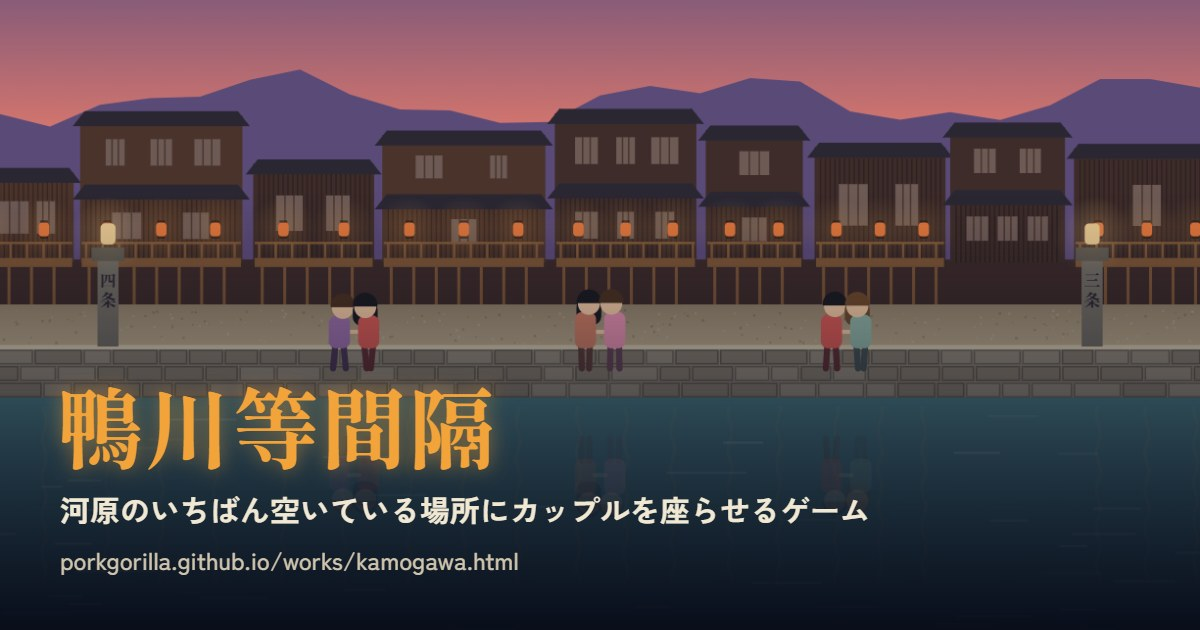
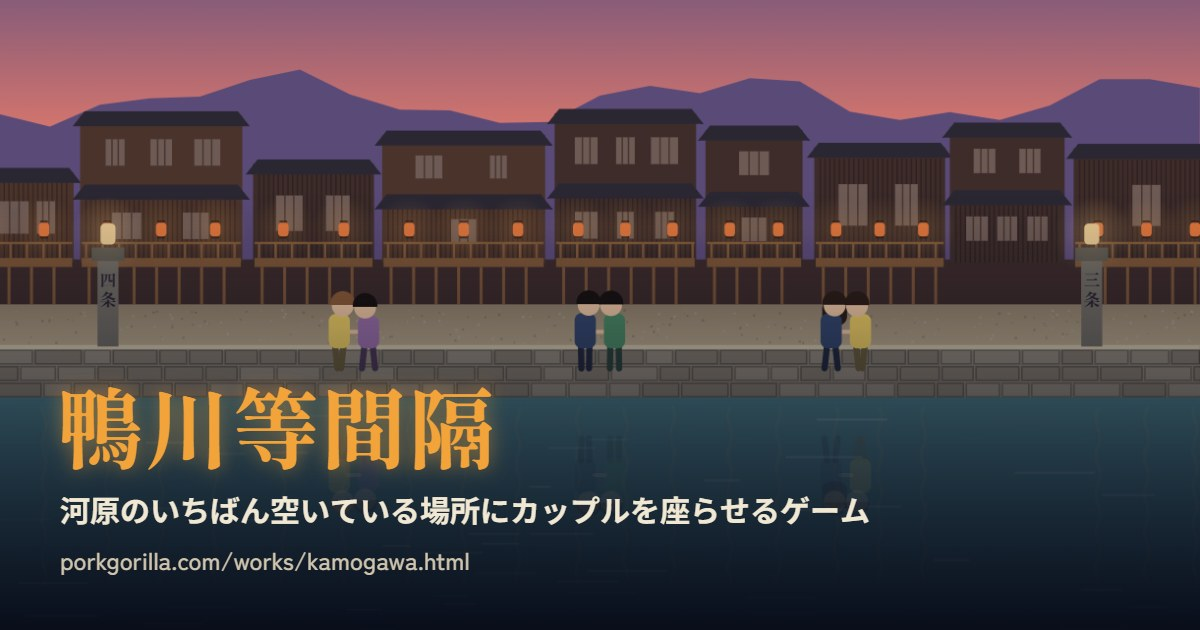
KAMOGAWA card image: show porkgorilla.com URL; bump OG cache version

diff --git a/works/kamogawa.html b/works/kamogawa.html
@@ -18,13 +18,13 @@
 <meta property="og:title" content="鴨川等間隔">
 <meta property="og:description" content="夕暮れの鴨川。やって来たカップルを、河原のいちばん空いている場所に座らせよう。">
 <meta property="og:url" content="https://porkgorilla.com/works/kamogawa.html">
-<meta property="og:image" content="https://porkgorilla.com/assets/og-kamogawa.jpg">
+<meta property="og:image" content="https://porkgorilla.com/assets/og-kamogawa.jpg?v=3">
 <meta property="og:image:width" content="1200">
 <meta property="og:image:height" content="630">
 <meta name="twitter:card" content="summary_large_image">
 <meta name="twitter:title" content="鴨川等間隔">
 <meta name="twitter:description" content="夕暮れの鴨川。やって来たカップルを、河原のいちばん空いている場所に座らせよう。">
-<meta name="twitter:image" content="https://porkgorilla.com/assets/og-kamogawa.jpg">
+<meta name="twitter:image" content="https://porkgorilla.com/assets/og-kamogawa.jpg?v=3">
 <link rel="preconnect" href="https://fonts.googleapis.com">
 <link rel="preconnect" href="https://fonts.gstatic.com" crossorigin>
 <link href="https://fonts.googleapis.com/css2?family=Shippori+Mincho+B1:wght@700;800&family=Zen+Kaku+Gothic+New:wght@500;700&display=swap" rel="stylesheet">
@@ -485,7 +485,7 @@ function xLength(t) {
 const GAME_URL = 'https://porkgorilla.com/works/kamogawa.html';
 // Xはリンクごとにカード情報(og:image等)をキャッシュするため、タグや画像を
 // 更新したときはこの番号を上げて別URL扱いにし、再クロールさせる。
-const OG_CACHE_VERSION = 2;
+const OG_CACHE_VERSION = 3;
 const SHARE_URL = GAME_URL + '?ogv=' + OG_CACHE_VERSION;
 const URL_LEN = 23; // Xはリンクを短縮URL(t.co, 23文字)として数える
 function updateShare() {
